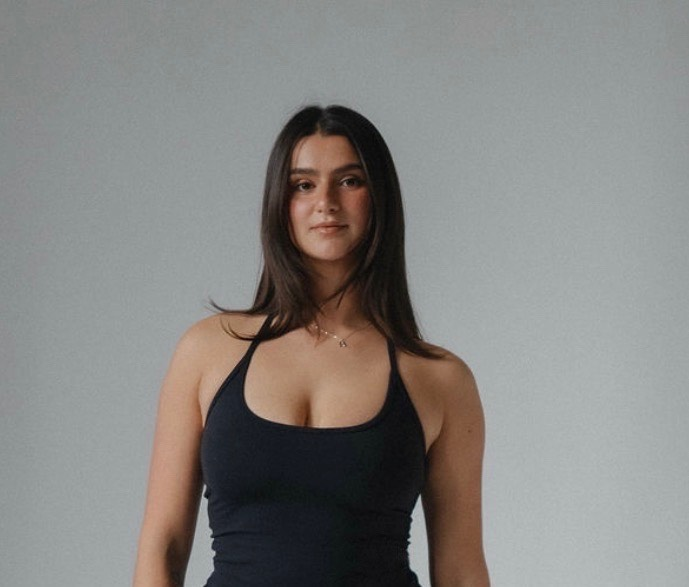
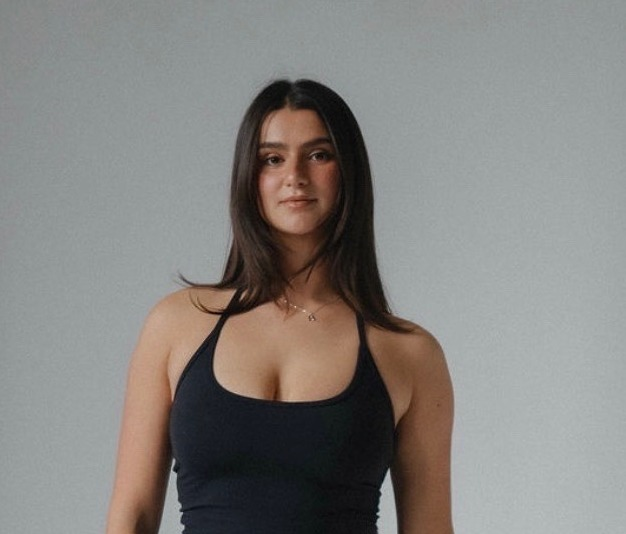
photo updates

Changed region(s): [[0.1518, 0.1498, 0.7284, 1.0], [0.5767, 0.6891, 0.6677, 1.0]]

diff --git a/components/InviteSearch.tsx b/components/InviteSearch.tsx
@@ -201,7 +201,7 @@ export default function InviteSearch({ invalid = false }: InviteSearchProps) {
                         : 'text-foreground hover:bg-muted'
                     }`}
                   >
-                    {m.names.join(' & ')}
+                    {m.names.join(', ')}
                   </li>
                 ))}
 

diff --git a/components/RsvpForm.tsx b/components/RsvpForm.tsx
@@ -107,7 +107,7 @@ export default function RsvpForm({ invite, attendees }: RsvpFormProps) {
     );
   }
 
-  const greetingName = attendees.map((a) => a.name).join(' & ');
+  const greetingName = attendees.map((a) => a.name).join(', ');
 
   return (
     <form
